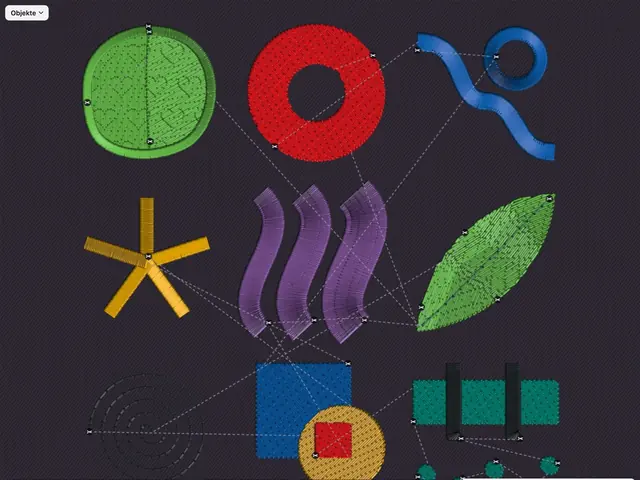
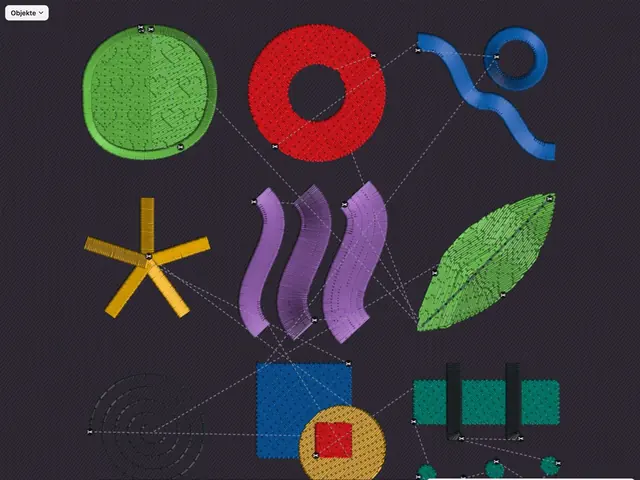
Screencast 11: new recording with Gacrux, catalog and card

diff --git a/src/videos/catalog.ts b/src/videos/catalog.ts
@@ -176,11 +176,11 @@ export const VIDEOS: Video[] = [
     key: '11-fuellungen',
     part: 11,
     title: { de: 'Füllungen', en: 'Fills' },
-    length: '3:05',
+    length: '3:35',
     group: 'detail',
     goal: { de: 'Du stellst Muster, Umrandung und Halt einer Füllung ein, zerteilst sie und lenkst ihre Reihen mit Leitlinien.', en: 'You set the pattern, border and hold of a fill, split it and steer its rows with guide lines.' },
     files: ['shapes-benchmark.svg'],
-    published: '2026-10-09T12:22:19+02:00',
+    published: '2026-10-11T20:42:34+02:00',
   },
   {
     key: '12-satin-und-linien',
